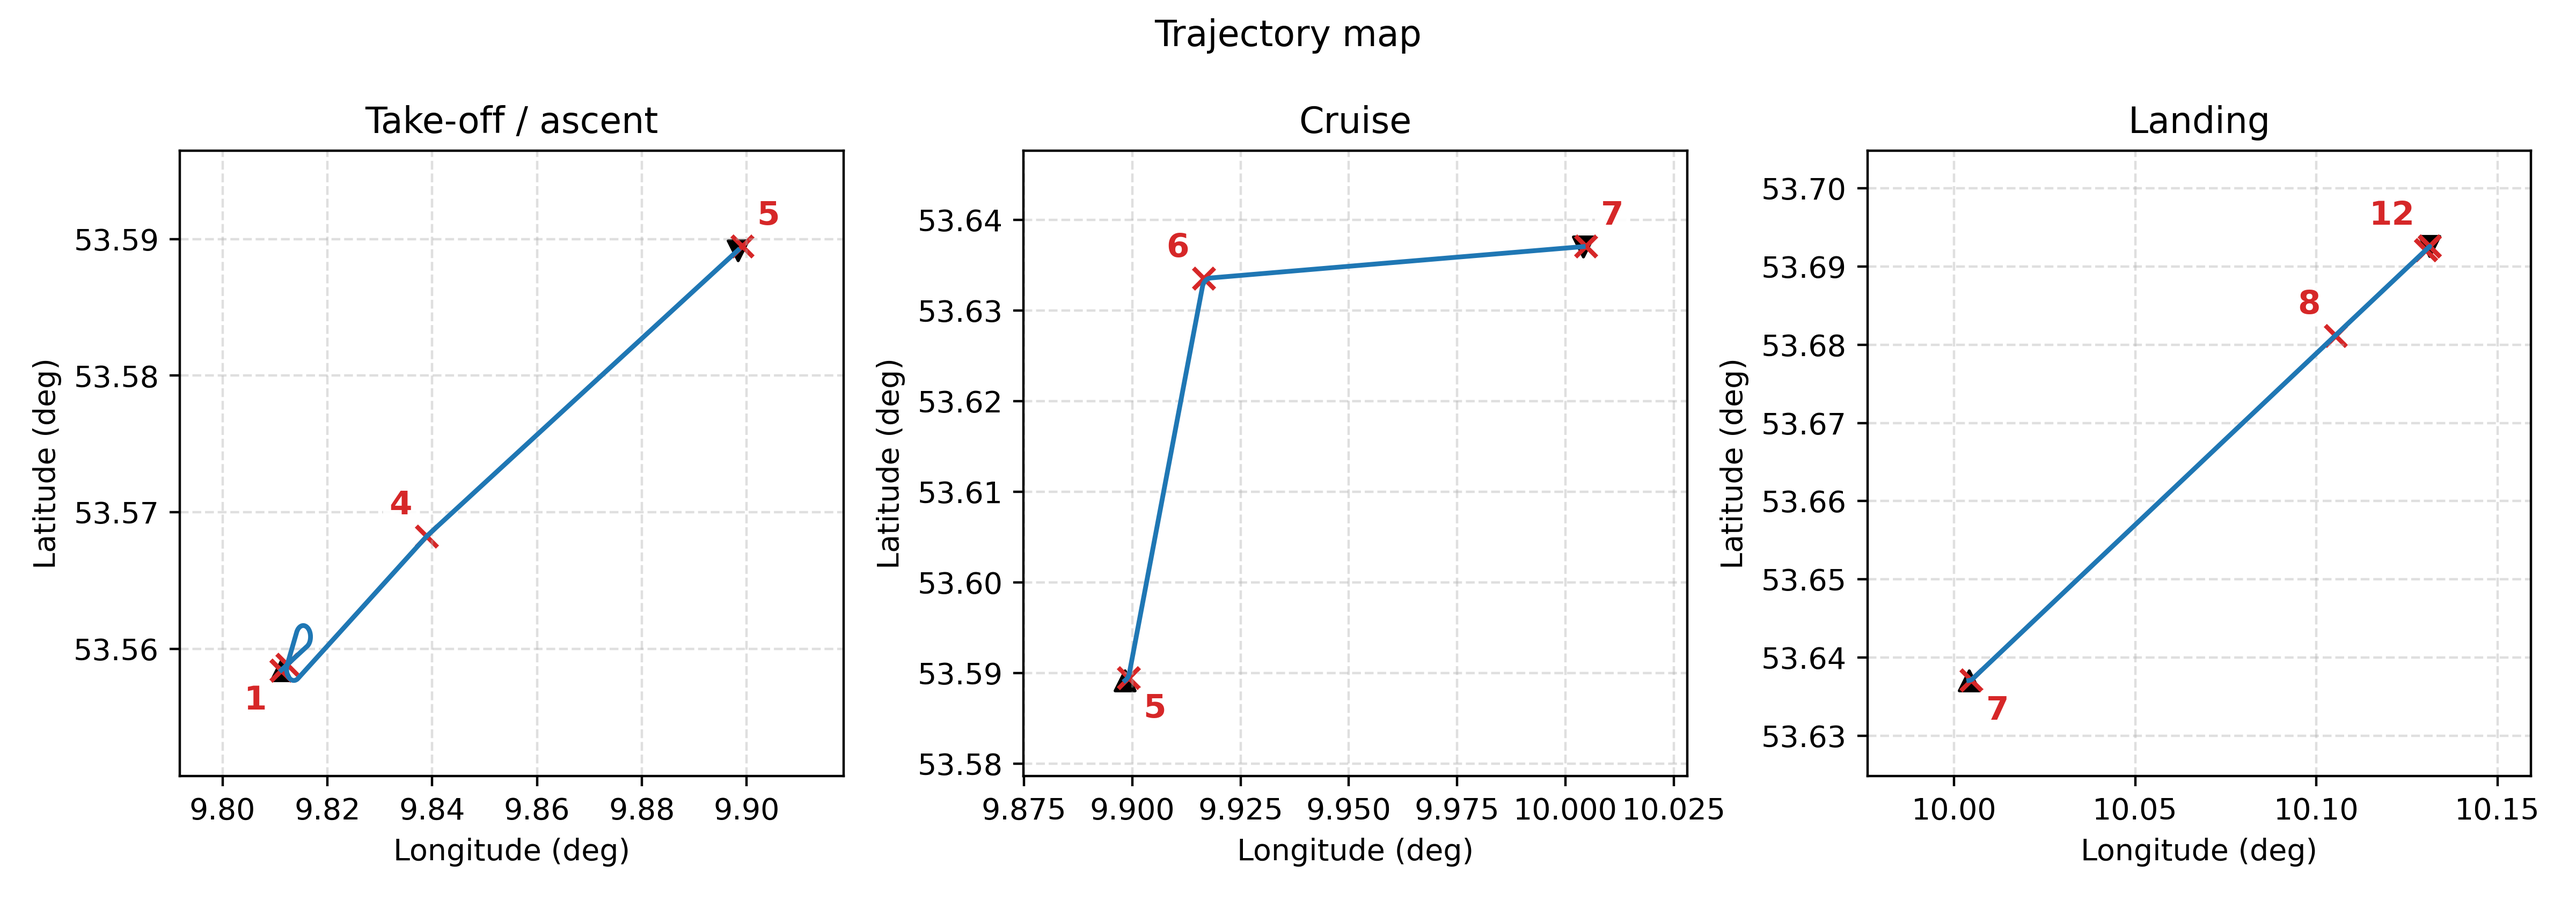
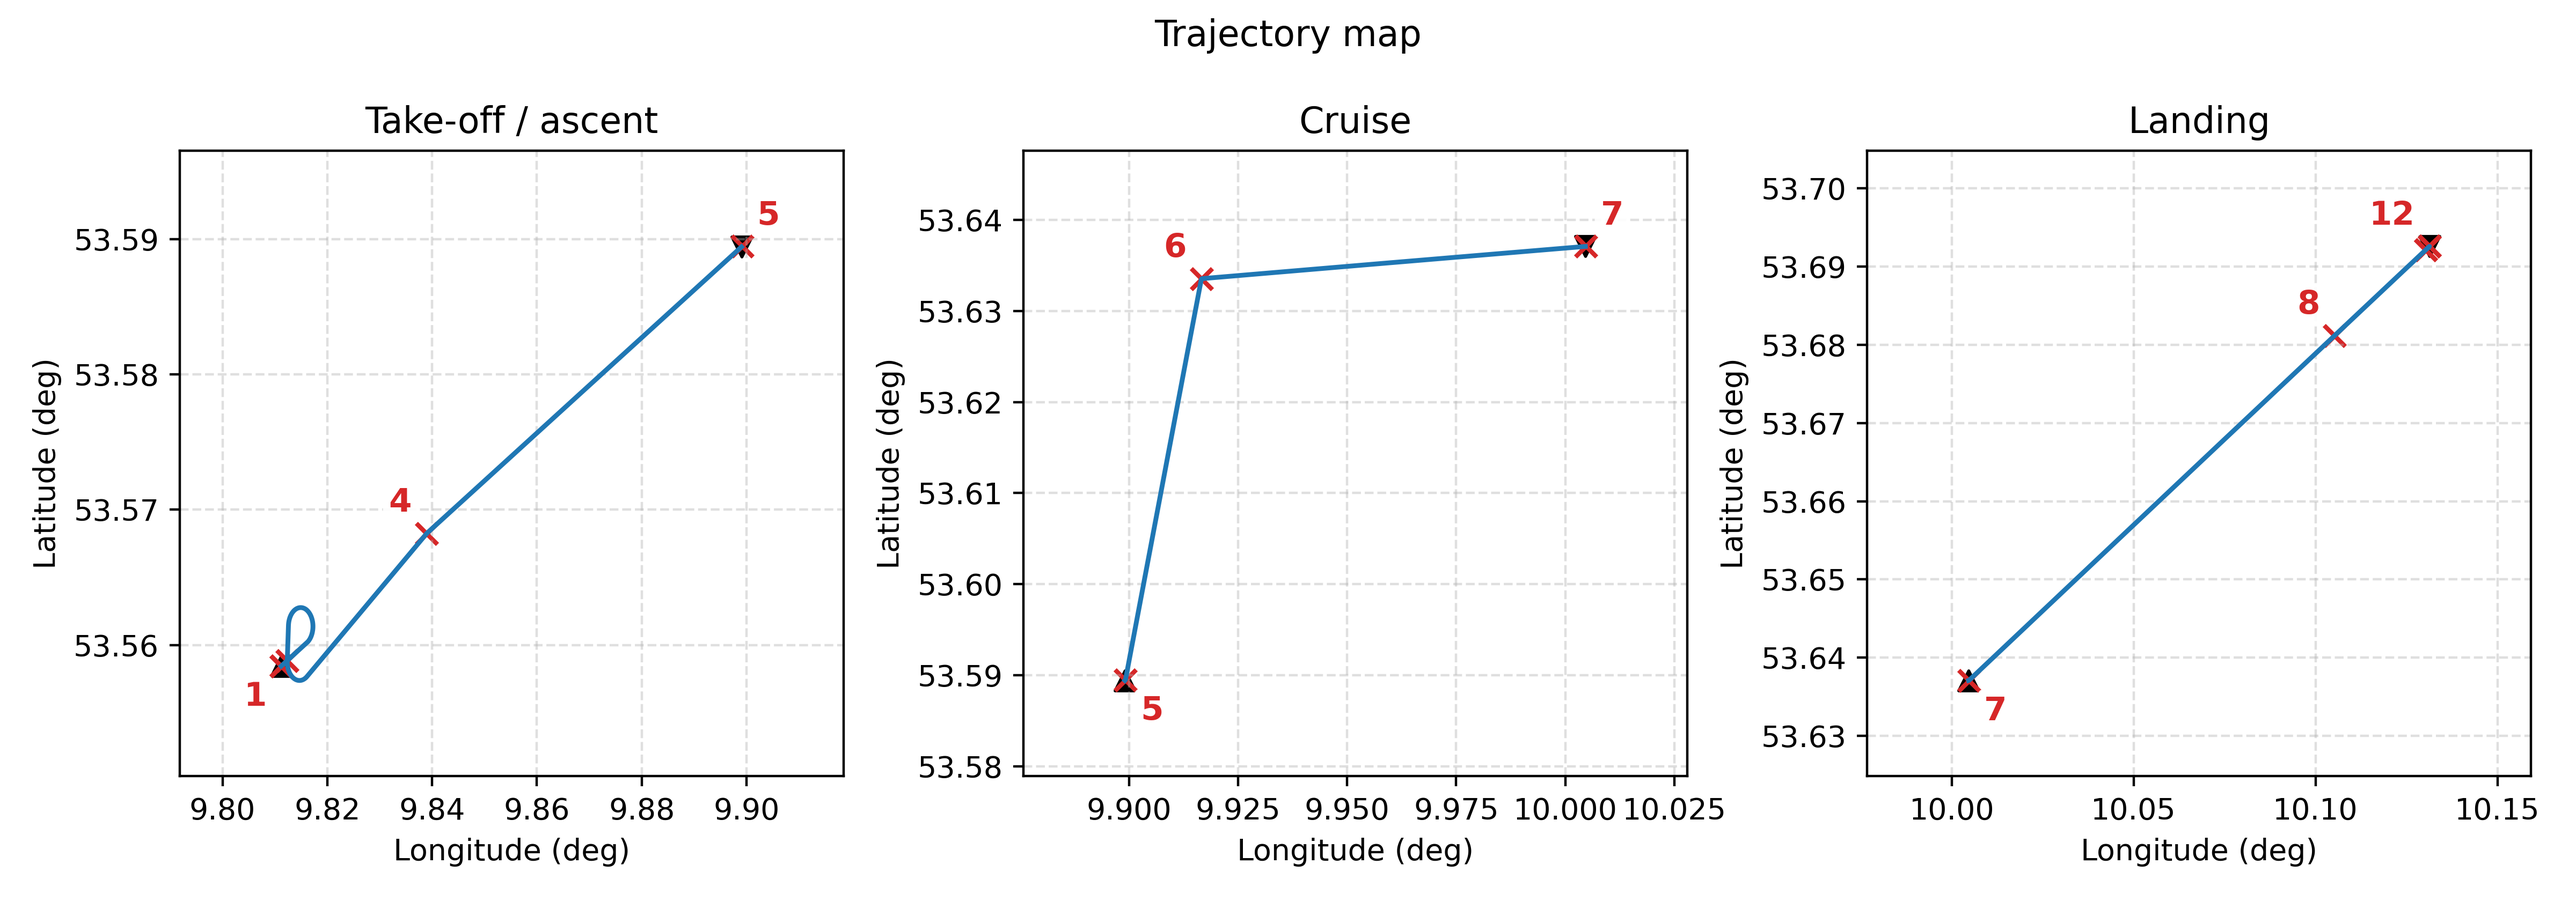
fix: update

diff --git a/content/results.tex b/content/results.tex
@@ -19,14 +19,14 @@ Figure~\ref{fig:blan_wohl_paths_overview} shows this route in the context of the
   \label{fig:blan_wohl_paths_overview}
 \end{figure}
 
-The waypoint synthesizer expands this five-node route into 12 CFMS input waypoints, including departure, transition, cruise, top-of-descent, and landing waypoints. The resulting dense trajectory contains 1646 samples before downstream subsampling, covers a cumulative distance of \SI{29.13}{km}, and has a total duration of \SI{1413.61}{s}, or \SI{23.56}{min}. The mean true airspeed over the generated trajectory is \SI{19.81}{m/s}, with the cruise segment reaching approximately \SI{24.93}{m/s}.
+The waypoint synthesizer expands this five-node route into 12 CFMS input waypoints, including departure, transition, cruise, top-of-descent, and landing waypoints. The three internal cruise-node waypoints corresponding to \texttt{VOLK}, \texttt{SCHN}, and \texttt{FUHB} are annotated with the corridor-width-derived turn-radius parameter of \SI{20}{m}. The resulting dense trajectory contains 1892 samples before downstream subsampling, covers a cumulative distance of \SI{29.49}{km}, and has a total duration of \SI{1558.59}{s}, or \SI{25.98}{min}. The mean true airspeed over the generated trajectory is \SI{17.07}{m/s}, with the cruise segment reaching approximately \SI{25.00}{m/s}.
 
-Figure~\ref{fig:blan_wohl_map} separates the lateral trajectory by the main planning phases. The departure panel shows the vehicle leaving \texttt{BLAN}, climbing through the terminal waypoints, and joining the corridor at \texttt{VOLK}. The cruise panel shows the route through the selected corridor nodes \texttt{VOLK}, \texttt{SCHN}, and \texttt{FUHB}. The landing panel shows the inbound transition from \texttt{FUHB} toward the destination vertiport \texttt{WOHL}. The figure therefore confirms that the generated trajectory follows the A*-selected corridor sequence while adding the terminal geometry required at both endpoints. The corresponding vertical and speed profiles are shown in Figs.~\ref{fig:blan_wohl_altitude} and~\ref{fig:blan_wohl_tas}.
+Figure~\ref{fig:blan_wohl_map} separates the lateral trajectory by the main planning phases. The departure panel shows the vehicle leaving \texttt{BLAN}, climbing through the terminal waypoints, and joining the corridor at \texttt{VOLK}. The cruise panel shows the route through the selected corridor nodes \texttt{VOLK}, \texttt{SCHN}, and \texttt{FUHB}; the regenerated trajectory uses the corridor-width turn-radius parameter at these cruise nodes. The landing panel shows the inbound transition from \texttt{FUHB} toward the destination vertiport \texttt{WOHL}. The figure therefore confirms that the generated trajectory follows the A*-selected corridor sequence while adding the terminal geometry required at both endpoints and finite-radius turn handling at internal cruise nodes. The corresponding vertical and speed profiles are shown in Figs.~\ref{fig:blan_wohl_altitude} and~\ref{fig:blan_wohl_tas}.
 
 \begin{figure}[!htbp]
   \centering
   \includegraphics[width=\linewidth]{figures/blan_wohl_trajectory_map.png}
-  \caption{Phase-separated lateral trajectory for the \texttt{BLAN} to \texttt{WOHL} request. Red markers indicate synthesized CFMS waypoints; the blue line is the generated trajectory. The panels separate the take-off and ascent portion, the corridor cruise portion, and the final landing transition. Boundary waypoints are repeated across adjacent panels to show phase continuity.}
+  \caption{Phase-separated lateral trajectory for the \texttt{BLAN} to \texttt{WOHL} request after applying corridor-width turn-radius annotations at internal cruise nodes. Red markers indicate synthesized CFMS waypoints; the blue line is the generated trajectory. The panels separate the take-off and ascent portion, the corridor cruise portion, and the final landing transition. Boundary waypoints are repeated across adjacent panels to show phase continuity.}
   \label{fig:blan_wohl_map}
 \end{figure}
 
@@ -39,12 +39,12 @@ Figure~\ref{fig:blan_wohl_altitude} shows the vertical profile of the generated 
   \label{fig:blan_wohl_altitude}
 \end{figure}
 
-Figure~\ref{fig:blan_wohl_tas} shows the corresponding true airspeed profile. As in the altitude profile, the panels use local phase-relative time axes rather than one global time axis. The vehicle accelerates from the terminal take-off segment into the outbound transition, reaches the higher cruise setting along the central corridor segment, and then decelerates for the arrival and landing procedure.
+Figure~\ref{fig:blan_wohl_tas} shows the corresponding true airspeed profile. As in the altitude profile, the panels use local phase-relative time axes rather than one global time axis. The vehicle accelerates from the terminal take-off segment into the outbound transition, reaches the higher cruise setting along the central corridor segment, and then decelerates for the arrival and landing procedure. The cruise panel also shows localized speed reductions at the internal corridor nodes. These reductions are expected: the regenerated waypoint set assigns a \SI{20}{m} turn radius to the cruise-node waypoints so that the vehicle can remain laterally inside the corridor while switching from one A*-selected corridor leg to the next. CFMS therefore reduces speed locally around these turns to satisfy the finite-radius transition constraint before accelerating again on the following corridor segment.
 
 \begin{figure}[!htbp]
   \centering
   \includegraphics[width=0.78\linewidth]{figures/blan_wohl_trajectory_tas.png}
-  \caption{True airspeed profile for the \texttt{BLAN} to \texttt{WOHL} trajectory. The phase-separated panels use local phase-relative time axes and show the acceleration from take-off, the higher cruise-speed segment, and the deceleration into the landing procedure.}
+  \caption{True airspeed profile for the \texttt{BLAN} to \texttt{WOHL} trajectory. The phase-separated panels use local phase-relative time axes and show the acceleration from take-off, the higher cruise-speed segment, localized speed reductions for finite-radius transitions between adjacent A* corridor legs, and the deceleration into the landing procedure.}
   \label{fig:blan_wohl_tas}
 \end{figure}
 

diff --git a/content/methodology.tex b/content/methodology.tex
@@ -75,10 +75,10 @@ The route \(P\) is transformed into a phase-consistent four-dimensional trajecto
 \caption{Planner pipeline for 4D trajectory generation}
 \label{alg:planner_pipeline}
 \begin{algorithmic}[1]
-\REQUIRE Origin vertiport \(o\), destination vertiport \(d\), corridor graph \(G=(V,E)\), vertiport data, cruise altitude \(H_c\)
+\REQUIRE Origin vertiport \(o\), destination vertiport \(d\), corridor graph \(G=(V,E)\), vertiport data, cruise altitude \(H_c\), corridor width \(b_c\)
 \ENSURE Dense trajectory \(\mathcal{T}_{\mathrm{dense}}\) and subsampled output trajectory \(\mathcal{T}_{\mathrm{out}}\)
 \STATE Compute corridor route \(P\) from \(o\) to \(d\) using A* on \(G\)
-\STATE Generate phase-structured waypoint sequence \(W\) from \(P\), vertiport data, and \(H_c\)
+\STATE Generate phase-structured waypoint sequence \(W\) from \(P\), vertiport data, \(H_c\), and \(b_c\)
 \STATE Convert \(W\) into CFMS-compatible input
 \STATE Generate dense 4D trajectory \(\mathcal{T}_{\mathrm{dense}}\) using CFMS
 \STATE Create subsampled output trajectory \(\mathcal{T}_{\mathrm{out}}\) with at most 200 trajectory points
@@ -267,13 +267,16 @@ The trajectory generation stage consumes:
 (i) the node sequence \(P\),
 (ii) vertiport coordinates and elevations,
 (iii) a fixed cruise altitude layer, and
-(iv) nominal phase-dependent speeds.
+(iv) a nominal corridor width used to parameterize turn radii at cruise-route nodes, and
+(v) nominal phase-dependent speeds.
 In this study, the cruise layer is defined as a fixed absolute altitude of \SI{200}{m} above mean sea level (MSL). Because the altitude is defined in MSL, the height above ground may vary with terrain and pad elevation. This is a deliberate benchmark abstraction used to evaluate the computational behavior of the planning stack under controlled conditions. Accordingly, local terrain variation, obstacle constraints, and dynamic weather effects are not modeled in this stage of the evaluation, and the resulting trajectories should be interpreted as benchmark trajectories rather than operational flight plans.
 
 \paragraph{Nominal waypoint synthesis.}
 At a high level, the waypoint generator converts the lateral A* route into a small set of phase-labeled waypoints representing departure, climb, cruise, descent, and landing. The lateral corridor path \(P\) is converted into a compact waypoint sequence \(W=[w_1,\dots,w_m]\) that explicitly represents the take-off, climb, cruise, descent, and landing phases. The first and last waypoints coincide with the origin and destination pad locations, respectively. Between these endpoints, the waypoint synthesizer inserts a small number of additional waypoints to shape the vertical profile and to provide CFMS with a phase-structured route definition.
 
 For multi-node routes, intermediate corridor nodes are retained as cruise-route reference points. Their lateral coordinates follow the graph path, while their altitudes are assigned according to the nominal climb profile up to the fixed cruise layer. For direct origin--destination connections, a reduced waypoint set is generated, including an intermediate point on the connecting geodesic to support smooth transition between departure and arrival phases.
+
+At internal cruise-route nodes, the waypoint generator also assigns a turn-radius field derived from the nominal corridor width. This radius is passed to the trajectory generator for the cruise navigation waypoints so that turns at corridor nodes are generated with a finite-radius constraint rather than as purely pointwise heading changes. In the evaluated configuration the default corridor width is \SI{20}{m}, so the internal cruise-node turn radius is \SI{20}{m}. This is still a simplified centerline model: the corridor width is used as the nominal radius parameter for turn generation, while explicit swept-volume containment against the full lateral corridor envelope is left to downstream validation.
 
 Each waypoint is annotated with a nominal flight phase and an associated target speed. The phase labels distinguish terminal segments near the vertiports from the cruise and transition segments along the corridor network. Nominal speeds are derived from vehicle-performance limits and scaled to preserve operational margins.
 

diff --git a/main.tex b/main.tex
@@ -47,7 +47,7 @@ Bianca Isabella Schuchardt$^{2}$ \\[6pt]
 \begin{document}
 \maketitle
 \begin{abstract}
-Urban Air Mobility (UAM) requires scalable path-planning solutions to safely integrate large numbers of eVTOL vehicles into structured low-altitude airspace. U-space, the European framework for unmanned aircraft traffic management in low-altitude airspace, relies on trajectory-based planning services to support such operations. Although routing algorithms, 4D trajectory generation, and deconfliction are well established individually, few studies report architecture-level performance results of a service-oriented implementation. This paper presents a service-oriented 4D path-planning framework for U-space corridor operations that combines A*-based global routing on a corridor graph, CFMS-based time-parameterized trajectory generation, and a separate NDMap-based deconfliction service. The system follows a microservice-oriented architecture separating a topology service providing vertiports and corridor networks, the \texttt{acc-trajcalc} path-planning service performing routing and trajectory generation, the \texttt{acc-trajdeconf} service performing deconfliction, and an interface to a U-space Service Provider (USSP). Computational performance is evaluated on a representative vertiport corridor network using sequential trajectory requests, with runtime explicitly separated into A* routing, waypoint synthesis, CFMS invocation and trajectory generation, and the planner-stage subtotal.
+Urban Air Mobility (UAM) requires scalable path-planning solutions to safely integrate large numbers of electric vertical take-off and landing (eVTOL) vehicles into structured low-altitude airspace. U-space, the European framework for unmanned aircraft traffic management, relies on trajectory-based planning services to support such operations. Although routing algorithms, 4D trajectory generation, and deconfliction are well established individually, fewer studies report architecture-level performance results for service-oriented 4D planning pipelines. This paper presents a service-oriented 4D path-planning framework for U-space corridor operations that combines A*-based routing on a corridor graph, CFMS-based time-parameterized trajectory generation, and a separate NDMap-based deconfliction service. The architecture separates topology provision, route planning, waypoint synthesis, trajectory generation, deconfliction, and U-space Service Provider (USSP) interaction into distinct service responsibilities. Computational performance is evaluated on a representative Hamburg vertiport corridor network using sequential trajectory requests. The runtime analysis decomposes the planner stage into A* routing, waypoint synthesis, CFMS invocation and trajectory generation, and the planner-stage subtotal. The results show that A* routing and waypoint synthesis remain sub-millisecond in the evaluated benchmark, while CFMS invocation and trajectory generation dominate the planner-stage runtime and determine the observed scaling behavior with selected path distance.
 \end{abstract}
 
 \input{content/abbreviations}

diff --git a/content/experimental_setup.tex b/content/experimental_setup.tex
@@ -85,7 +85,7 @@ The system follows a service-oriented separation of concerns; however, the evalu
         \item landing decision point (LDP), and
         \item destination pad waypoint.
     \end{enumerate}
-    For direct origin--destination routes, the corridor-node sequence is replaced by a single intermediate great-circle waypoint between departure and arrival procedures. The terminal geometry is therefore not an abstract placeholder, but a rule-based construction tied to the EASA vertiport procedure definitions adopted in this study.
+    For direct origin--destination routes, the corridor-node sequence is replaced by a single intermediate great-circle waypoint between departure and arrival procedures. Internal cruise corridor nodes are additionally annotated with a turn radius equal to the nominal corridor width, set to \SI{20}{m} in this evaluation. The terminal geometry is therefore not an abstract placeholder, but a rule-based construction tied to the EASA vertiport procedure definitions adopted in this study, while cruise-node turns are parameterized by the evaluated corridor-width assumption.
 
     \item \textbf{Trajectory generation:} CFMS-based 4D trajectory generation is performed using phase-dependent nominal speeds derived from vehicle-performance limits and scaled to preserve operational margins.
 
@@ -104,6 +104,7 @@ Table~\ref{tab:waypoint_params} summarizes the nominal waypoint-synthesis parame
         Quantity & Value / rule used in this study \\
         \midrule
         Cruise altitude and direct-route rule & Fixed absolute cruise layer at \SI{200}{m} MSL; for a two-node route the en-route portion is represented by one intermediate great-circle waypoint between the departure and arrival procedures. \\
+        Corridor width and cruise-node turn radius & Nominal corridor width \(b_c=\SI{20}{m}\). Internal A* corridor nodes retained as cruise-route waypoints receive a CFMS turn-radius field equal to \(b_c\). \\
         Design gradients and landing references & Geometric climb assignment uses a minimum climb gradient of 0.025~m/m; descent defaults to 0.06~m/m; LDP and hover reference heights default to \SI{15}{m} and \SI{30}{m} above the pad, respectively. \\
         Aircraft reference size & Default aircraft diameter \(D=\SI{16}{m}\) when no vehicle-specific value is provided. \\
         Terminal heights & The lower terminal height \(h_1\) is set to the greater of \SI{15}{m} and the LDP height above the pad. The upper terminal height \(h_2\) is set to the smaller of \(5D\) and \SI{60}{m}, with \(h_2 \ge h_1\), following the PTS-VPT-DSN vertical take-off and landing procedure definitions. \\
